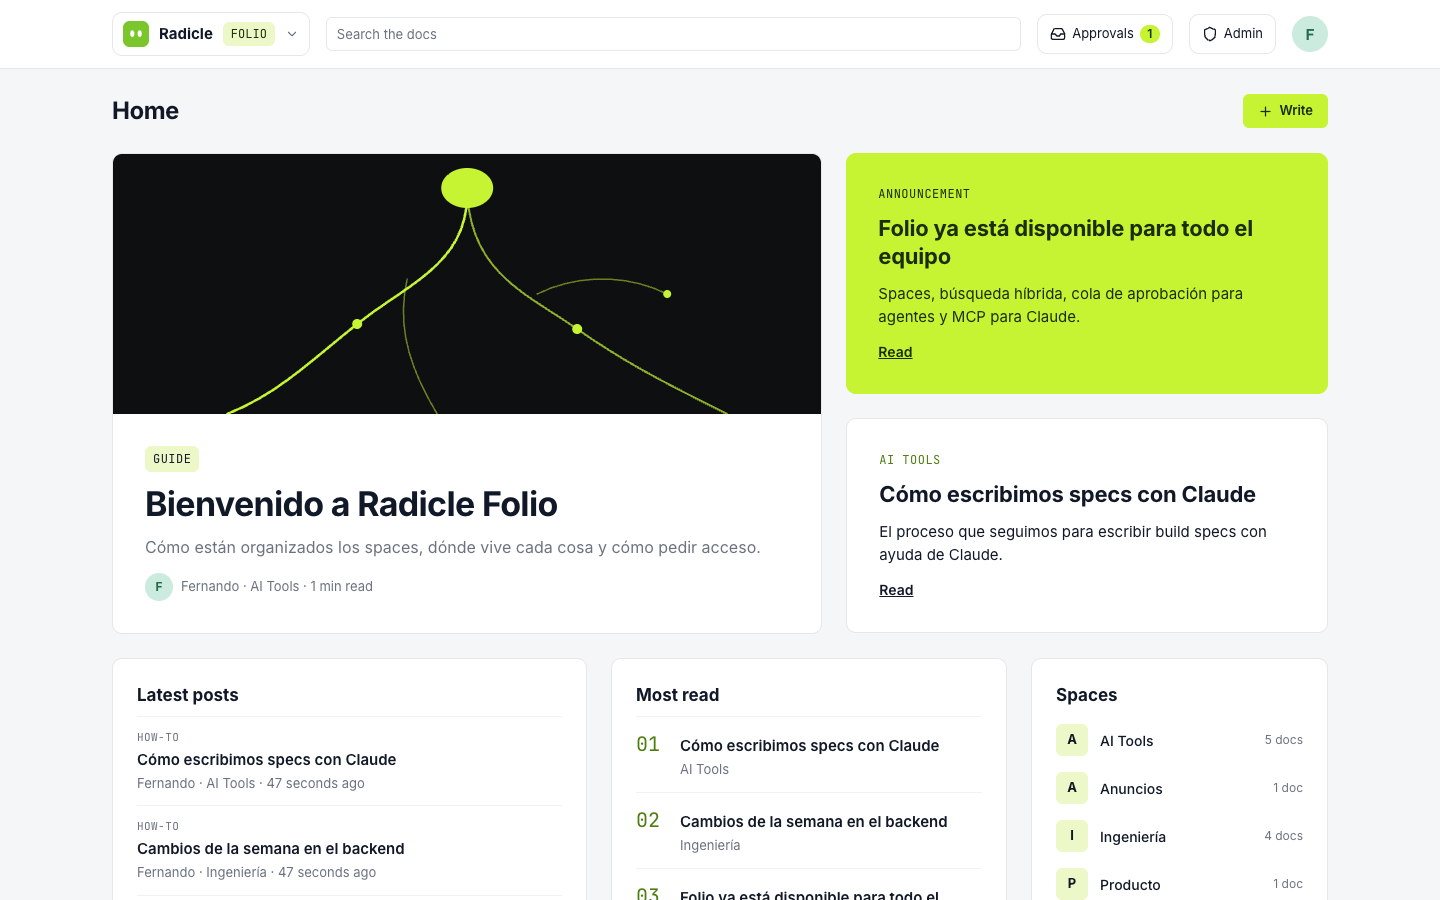
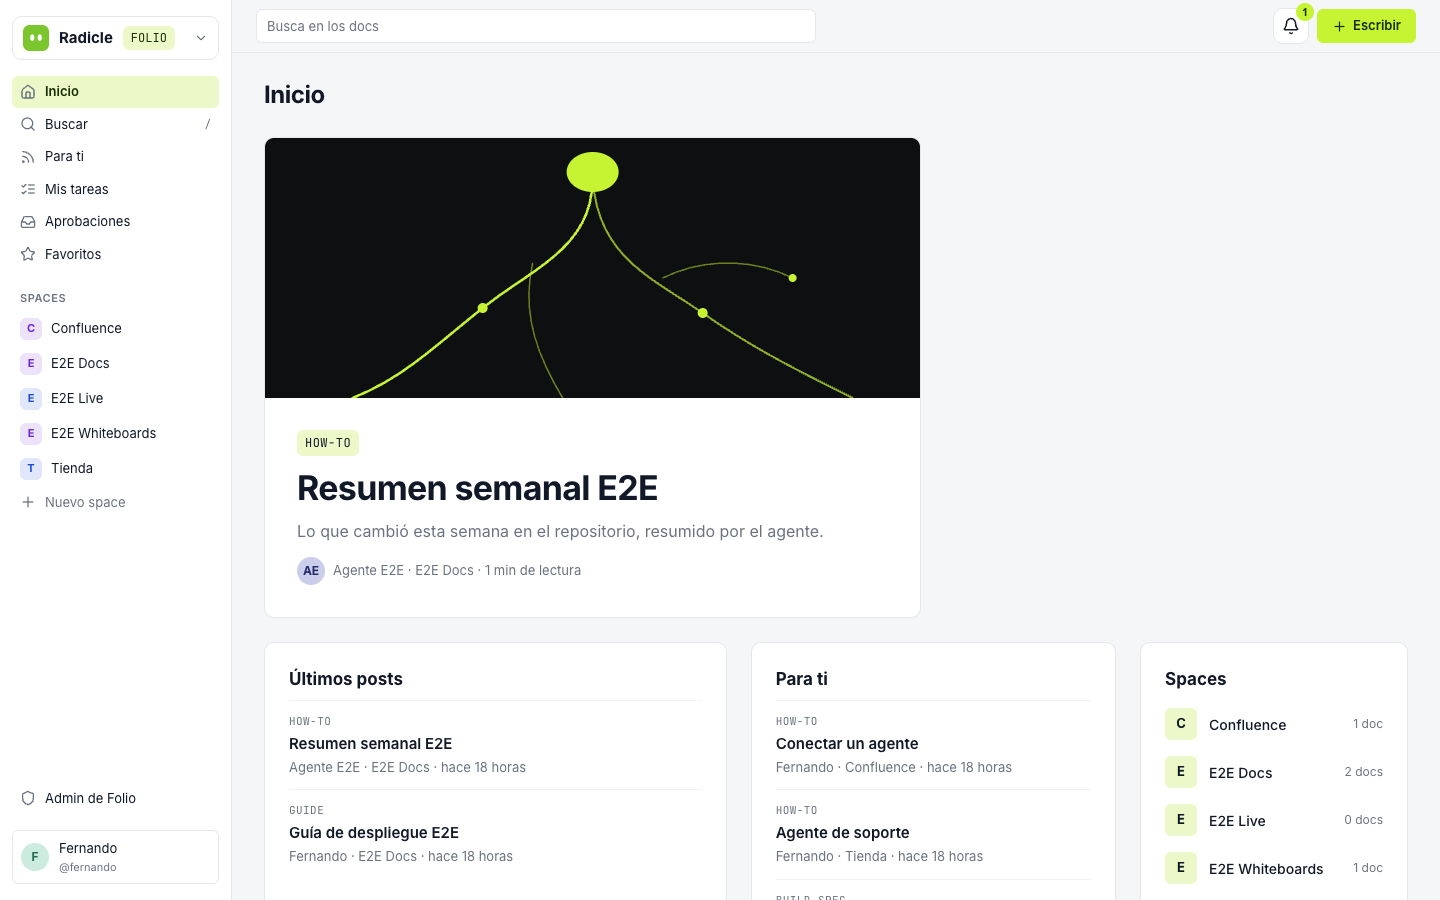
docs: Folio's new navigation in pictures, and the fixes we want next (#468)
README (en/es) shows every part of the new navigation with fresh
screenshots: the space, Specs, architecture decisions, guides, docs with
Radi's card, Radi's panel, Manage, the reader and the phone drawer. The
roadmap and CONTRIBUTING list the follow-up fixes RAD-69 to RAD-73.

Claude-Session: https://claude.ai/code/session_01TXA1ksCQmQs95Cjnry6PLy

diff --git a/README.es.md b/README.es.md
@@ -387,6 +387,24 @@ Docket (el tracker de tickets) y Folio comparten personas, grupos, agentes y el 
   <img src="docs/images/folio-specs.png" alt="Specs filtrados por proyecto y luego por sus features" width="49%">
 </p>
 
+<p align="center">
+  <img src="docs/images/folio-decisions.png" alt="Decisiones de arquitectura, primero las vigentes" width="49%">
+  <img src="docs/images/folio-guides.png" alt="Guías con un camino de primeros pasos" width="49%">
+</p>
+
+- **Radi en Folio.** El botón verde de Radi también está abajo a la derecha en Folio, con las herramientas de Folio: busca en los docs que puedes ver, responde citando la sección exacta y te escribe un borrador. En la sección Documentación, una tarjeta oscura de Radi te avisa cuando una página de referencia quedó vieja y ofrece actualizarla.
+- **Administrar.** **Administrar** en un space abre su modo admin: páginas, permisos, qué secciones se ven y en qué orden, y ajustes.
+
+<p align="center">
+  <img src="docs/images/folio-docs-radi.png" alt="Documentación por módulo, con la tarjeta de Radi sobre una página vieja" width="49%">
+  <img src="docs/images/folio-radi.png" alt="Radi respondiendo en Folio con citas" width="49%">
+</p>
+<p align="center">
+  <img src="docs/images/folio-manage.png" alt="El modo admin de un space" width="49%">
+  <img src="docs/images/folio-reader-nav.png" alt="Leyendo una página con su ruta, índice, anterior y siguiente" width="49%">
+</p>
+<p align="center"><img src="docs/images/folio-mobile.png" alt="El sidebar de Folio como cajón en el teléfono" width="300"></p>
+
 - **Lectura.** Las páginas se leen como revista, con la ruta de regreso a su space y sección, la anterior y la siguiente de su carpeta, el índice "On this page", el dueño, estado, tipo, idioma y labels. El **modo enfoque** deja solo el texto y una barra de progreso, y recuerda tu elección. En claro y oscuro, como todo Radicle.
 - **Escritura.** Un editor a pantalla completa guarda tu borrador mientras escribes. Presiona <kbd>/</kbd> para cualquier bloque (encabezados, listas, checklists, tablas, código, paneles, expandibles, columnas, imágenes, archivos y video) o usa atajos de Markdown. Pega o suelta imágenes para subirlas.
 
@@ -560,6 +578,14 @@ Las etapas 1 a 4 están completas: core y MCP, configuración y trabajo diario, 
 - [ ] SSO con SAML (hoy solo OpenID Connect).
 - [ ] Roles además de admin, member y viewer.
 - [ ] Más idiomas para la UI y el formulario público (hoy inglés y español).
+
+**Folio: siguientes arreglos** (de la nueva navegación; cada uno tiene su ticket)
+
+- [ ] Modo oscuro: el hero del space casi se confunde con la página, y la tarjeta de Radi se ve gris en vez de destacar (RAD-69).
+- [ ] El filtro de proyecto en Specs y Decisiones de arquitectura muestra la clave (RAD) en lugar del nombre (Folio) (RAD-70).
+- [ ] Avisar que una página de referencia quedó vieja cuando cambia el código que documenta, no solo cuando vence su verificación (RAD-71).
+- [ ] Guardar vistas de Specs y Decisiones por persona en vez de copiar un link (RAD-72).
+- [ ] El próximo evento del calendario en la portada del space (RAD-73).
 
 **Pendientes y arreglos chicos** (buenas primeras contribuciones)
 

diff --git a/README.md b/README.md
@@ -416,6 +416,24 @@ Docket (the ticket tracker) and Folio share people, groups, agents and the sign-
   <img src="docs/images/folio-specs.png" alt="Specs filtered by project, then by its features" width="49%">
 </p>
 
+<p align="center">
+  <img src="docs/images/folio-decisions.png" alt="Architecture decisions, current ones first" width="49%">
+  <img src="docs/images/folio-guides.png" alt="Guides with a getting-started path" width="49%">
+</p>
+
+- **Radi in Folio.** Radi's green button sits bottom right in Folio too, with Folio's own tools: it searches the docs you can see, answers citing the exact section, and writes a draft for you. On the Docs section, a dark card from Radi tells you when a reference page went stale and offers to update it.
+- **Manage.** **Manage** on a space opens its admin mode: pages, permissions, which sections show and in what order, and settings.
+
+<p align="center">
+  <img src="docs/images/folio-docs-radi.png" alt="Docs grouped by module, with Radi's card about a stale page" width="49%">
+  <img src="docs/images/folio-radi.png" alt="Radi answering in Folio with citations" width="49%">
+</p>
+<p align="center">
+  <img src="docs/images/folio-manage.png" alt="A space's admin mode" width="49%">
+  <img src="docs/images/folio-reader-nav.png" alt="Reading a page with its path, index and previous and next" width="49%">
+</p>
+<p align="center"><img src="docs/images/folio-mobile.png" alt="Folio's sidebar as a drawer on a phone" width="300"></p>
+
 - **Reading.** Pages read like a magazine, with a path back to their space and section, previous and next in their folder, an "On this page" index, the owner, status, type, language and labels. **Focus mode** leaves just the text and a progress bar, and it remembers your choice. Light and dark, like the rest of Radicle.
 - **Writing.** A full-screen editor saves your draft as you type. Press <kbd>/</kbd> for any block (headings, lists, checklists, tables, code, panels, expands, columns, images, files and video), or write Markdown shortcuts. Paste or drop images to upload them.
 
@@ -589,6 +607,14 @@ Stages 1 to 4 are complete: core and MCP, configuration and daily work, planning
 - [ ] SAML single sign-on (only OpenID Connect today).
 - [ ] Roles beyond admin, member and viewer.
 - [ ] More languages for the UI and the public form (English and Spanish today).
+
+**Folio: next fixes** (from the new navigation; each has its ticket)
+
+- [ ] Dark mode: the space hero almost blends into the page, and Radi's card looks grey instead of standing out (RAD-69).
+- [ ] The project filter in Specs and Architecture decisions shows the key (RAD) instead of the name (Folio) (RAD-70).
+- [ ] Tell when a reference page went stale because the code it documents changed, not only when its verification expired (RAD-71).
+- [ ] Save Specs and decisions views per person instead of copying a link (RAD-72).
+- [ ] The next calendar event on a space's front page (RAD-73).
 
 **Known issues and small fixes** (good first contributions)
 

diff --git a/CONTRIBUTING.md b/CONTRIBUTING.md
@@ -25,6 +25,18 @@ Thanks for wanting to help! 🌱 Radicle is a community project. Bug reports, do
 - **Pick an issue**: look for the `good first issue` and `help wanted` labels, or the [known issues in the README](README.md#%EF%B8%8F-roadmap-and-known-issues). Comment on the issue so others know you are on it.
 - **Improve the docs or translations**: the UI is in English and Spanish (`frontend/src/i18n/locales/`), and both READMEs welcome fixes.
 
+### Fixes we'd love help with
+
+These came out of Folio's new navigation. Each one has its ticket in Radicle's own tracker; say which one you're taking in your PR.
+
+| Ticket | Fix | Size |
+| --- | --- | --- |
+| RAD-69 | Dark mode: give the space hero and Radi's suggestion card enough contrast against the page. | Small, frontend |
+| RAD-70 | Show the project's name (Folio), not its key (RAD), in the Specs and Architecture decisions filters. | Small, frontend |
+| RAD-71 | Mark a reference page stale when the code module it documents changes, not only when its verification expires. Needs an ADR. | Medium, backend and frontend |
+| RAD-72 | Saved views per person for Specs and Architecture decisions, listed in Favorites. | Medium, backend and frontend |
+| RAD-73 | The next calendar event as a card on a space's front page. | Small, frontend |
+
 ## Ground rules for pull requests
 
 Small and focused PRs get reviewed fast and break less. Every PR must:
